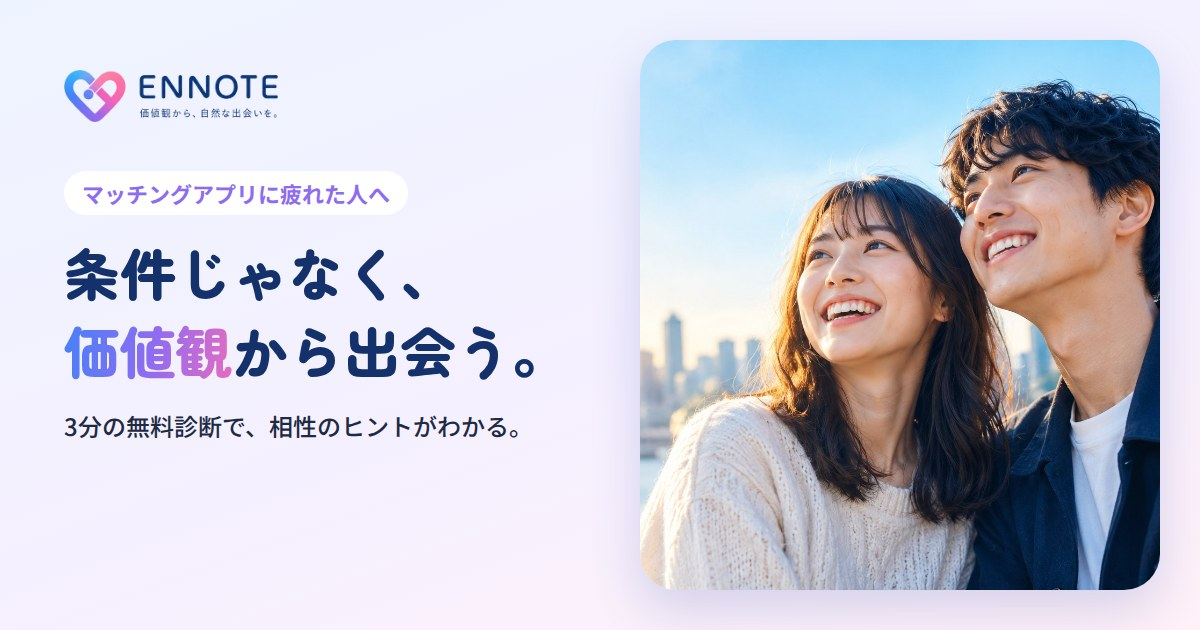
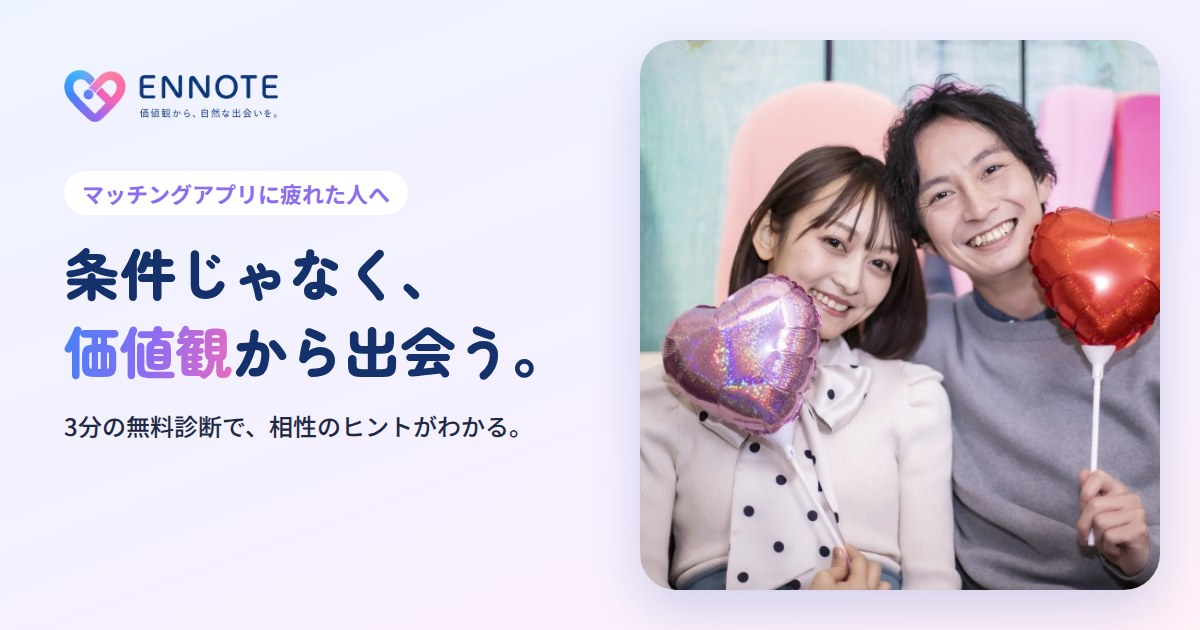
slider

diff --git a/index.html b/index.html
@@ -34,8 +34,8 @@
       rel="stylesheet"
       href="https://fonts.googleapis.com/css2?family=Noto+Sans+JP:wght@400;500;700&family=Zen+Maru+Gothic:wght@500;700;900&family=Outfit:wght@500;600;700&display=swap"
     />
-    <link rel="preload" as="image" href="assets/img/hero.webp" media="(min-width:768px)" />
-    <link rel="preload" as="image" href="assets/img/hero_sp.webp" media="(max-width:767px)" />
+    <link rel="preload" as="image" href="assets/img/hero1.webp" media="(min-width:768px)" />
+    <link rel="preload" as="image" href="assets/img/hero1_sp.webp" media="(max-width:767px)" />
     <link rel="stylesheet" href="assets/css/style.css" />
     <script src="assets/js/main.js" defer></script>
   </head>
@@ -168,16 +168,23 @@
             </div>
           </div>
           <div class="photo">
-            <div class="img">
-              <picture
-                ><source media="(max-width:767px)" srcset="assets/img/hero_sp.webp" width="900" height="762" />
-                <img
-                  src="assets/img/hero.webp"
-                  alt="額を寄せ合って微笑むウェディング姿の二人"
-                  width="1125"
-                  height="1200"
-                  fetchpriority="high"
-              /></picture>
+            <div class="img slider" data-slider aria-roledescription="カルーセル" aria-label="メインビジュアル">
+              <div class="slide s1 is-active" role="group" aria-roledescription="スライド" aria-label="1 / 2">
+                <picture
+                  ><source media="(max-width:767px)" srcset="assets/img/hero1_sp.webp" width="900" height="762" />
+                  <img src="assets/img/hero1.webp" alt="ハートの風船を持って笑顔で寄り添う二人" width="1125" height="1200" fetchpriority="high"
+                /></picture>
+              </div>
+              <div class="slide s2" role="group" aria-roledescription="スライド" aria-label="2 / 2">
+                <picture
+                  ><source media="(max-width:767px)" srcset="assets/img/hero2_sp.webp" width="900" height="762" />
+                  <img src="assets/img/hero2.webp" alt="額を寄せ合って微笑むウェディング姿の二人" width="1125" height="1200" decoding="async"
+                /></picture>
+              </div>
+              <div class="dots">
+                <button type="button" aria-label="1枚目を表示" aria-current="true"></button>
+                <button type="button" aria-label="2枚目を表示"></button>
+              </div>
             </div>
             <div class="stat">
               <small>累計診断回答</small><b class="gtext">12<span>万件</span></b

diff --git a/assets/css/style.css b/assets/css/style.css
@@ -62,6 +62,16 @@ br.sp{display:none}
 .fv::after{width:460px;height:460px;left:-160px;bottom:-200px;background:radial-gradient(circle,#C7D8FF 0%,rgba(199,216,255,0) 70%)}
 .fv .photo .img{position:absolute;inset:0}
 .fv .photo img{width:100%;height:100%;object-fit:cover;object-position:48% 30%}
+/* メインビジュアルのスライダー：フェードで切り替え */
+.fv .slider .slide{position:absolute;inset:0;opacity:0;transition:opacity 1.2s ease}
+.fv .slider .slide.is-active{opacity:1;z-index:1}
+.fv .slider .slide img{transform:scale(1.06);transition:transform 6.5s ease-out}
+.fv .slider .slide.is-active img{transform:scale(1)}
+.fv .slider .s1 img{object-position:50% 30%}
+.fv .slider .dots{position:absolute;z-index:2;left:50%;bottom:18px;transform:translateX(-50%);display:flex;gap:8px;padding:7px 10px;border-radius:999px;background:rgba(255,255,255,.55);backdrop-filter:blur(6px)}
+.fv .slider .dots button{width:8px;height:8px;padding:0;border:0;border-radius:999px;background:rgba(31,45,90,.3);cursor:pointer;transition:width .3s,background .3s}
+.fv .slider .dots button[aria-current="true"]{width:22px;background:var(--grad)}
+.fv .slider .dots button:focus-visible{outline:2px solid var(--violet);outline-offset:3px}
 
 .fv .stat{position:absolute;z-index:3;left:-70px;bottom:-26px;width:210px;height:210px;border-radius:50%;background:#fff;box-shadow:var(--shadow);display:flex;flex-direction:column;align-items:center;justify-content:center;text-align:center}
 .fv .stat small{font-size:14px;font-weight:700;color:var(--sub)}
@@ -253,6 +263,8 @@ br.sp{display:none}
   .fv .photo{position:relative;width:auto;height:300px;margin:68px 16px 0;right:auto;top:auto;bottom:auto}
   .fv .photo .img{border-radius:24px}
   .fv .photo img{object-position:50% 30%}
+  .fv .slider .s1 img{object-position:50% 40%}
+  .fv .slider .dots{left:16px;bottom:14px;transform:none}
   .fv .stat{width:118px;height:118px;left:auto;right:-6px;bottom:-34px}
   .fv .stat small{font-size:10px} .fv .stat b{font-size:38px} .fv .stat b span{font-size:14px} .fv .stat em{font-size:11px} .fv .stat i{font-size:6px;bottom:13px;transform:scale(.9)}
   .fv .copy{width:100%;padding:26px 20px 44px}
@@ -377,4 +389,8 @@ html{scroll-behavior:smooth}
   .fv .photo{right:32px;width:calc(48% - 40px)}
   .fv .stat{left:auto;right:-18px;bottom:-34px;width:176px;height:176px}
   .fv .stat small{font-size:12px} .fv .stat b{font-size:54px} .fv .stat b span{font-size:20px} .fv .stat em{font-size:14px} .fv .stat i{font-size:7.5px;bottom:20px}
+}
+
+@media (min-width:768px) and (max-width:1279px){
+  .fv .slider .dots{left:18px;transform:none}
 }

diff --git a/assets/js/main.js b/assets/js/main.js
@@ -70,6 +70,54 @@
     });
   }
 
+  // メインビジュアルのスライダー：5秒ごとにフェードで切り替え。
+  // 動きを減らす設定の人には自動で切り替えない。マウスを乗せている間・別タブの間は止める
+  var slider = document.querySelector("[data-slider]");
+  if (slider) {
+    var slides = slider.querySelectorAll(".slide");
+    var dots = slider.querySelectorAll(".dots button");
+    var current = 0,
+      timer = null;
+    var reduceMotion = window.matchMedia && window.matchMedia("(prefers-reduced-motion: reduce)").matches;
+    var show = function (i) {
+      current = (i + slides.length) % slides.length;
+      slides.forEach(function (s, k) {
+        s.classList.toggle("is-active", k === current);
+        s.setAttribute("aria-hidden", k === current ? "false" : "true");
+      });
+      dots.forEach(function (d, k) {
+        d.setAttribute("aria-current", k === current ? "true" : "false");
+      });
+    };
+    var stop = function () {
+      clearInterval(timer);
+      timer = null;
+    };
+    var start = function () {
+      if (reduceMotion || timer) return;
+      timer = setInterval(function () {
+        show(current + 1);
+      }, 5000);
+    };
+    dots.forEach(function (d, k) {
+      d.addEventListener("click", function () {
+        stop();
+        show(k);
+        start();
+      });
+    });
+    slider.addEventListener("mouseenter", stop);
+    slider.addEventListener("mouseleave", start);
+    slider.addEventListener("focusin", stop);
+    slider.addEventListener("focusout", start);
+    document.addEventListener("visibilitychange", function () {
+      if (document.hidden) stop();
+      else start();
+    });
+    show(0);
+    start();
+  }
+
   // よくある質問：開いた質問を計測
   document.querySelectorAll(".fq details").forEach(function (d) {
     d.addEventListener("toggle", function () {
